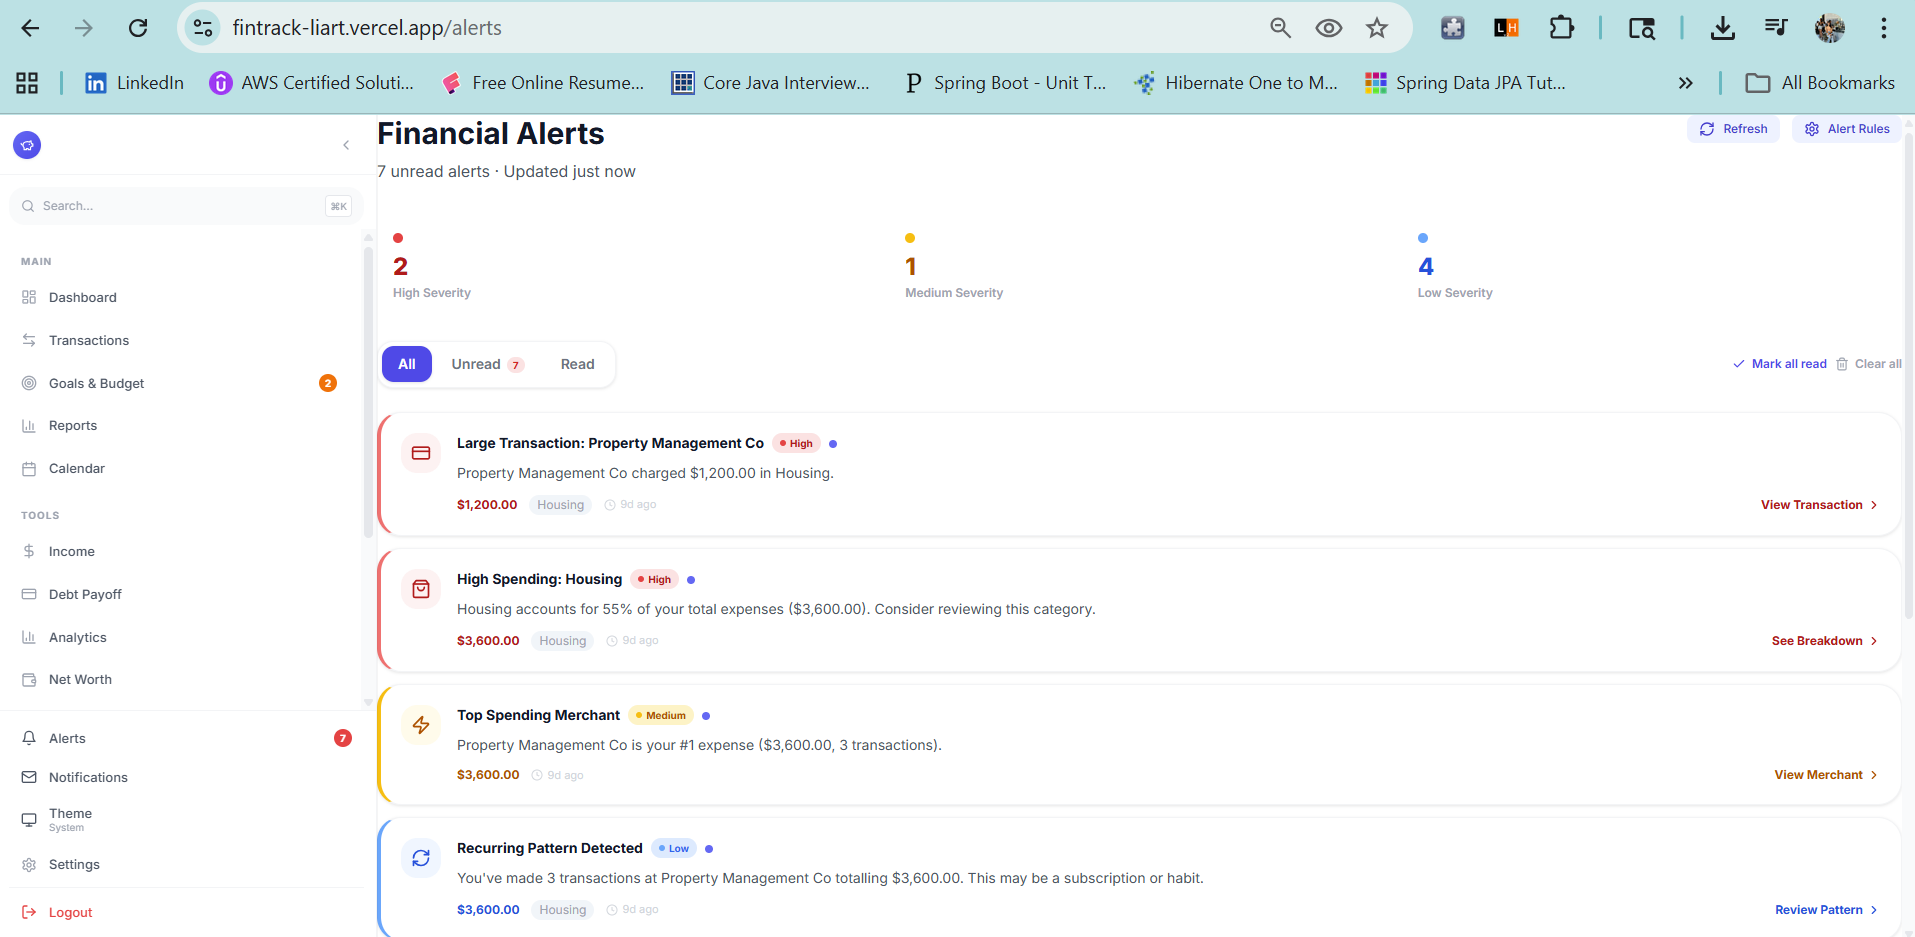
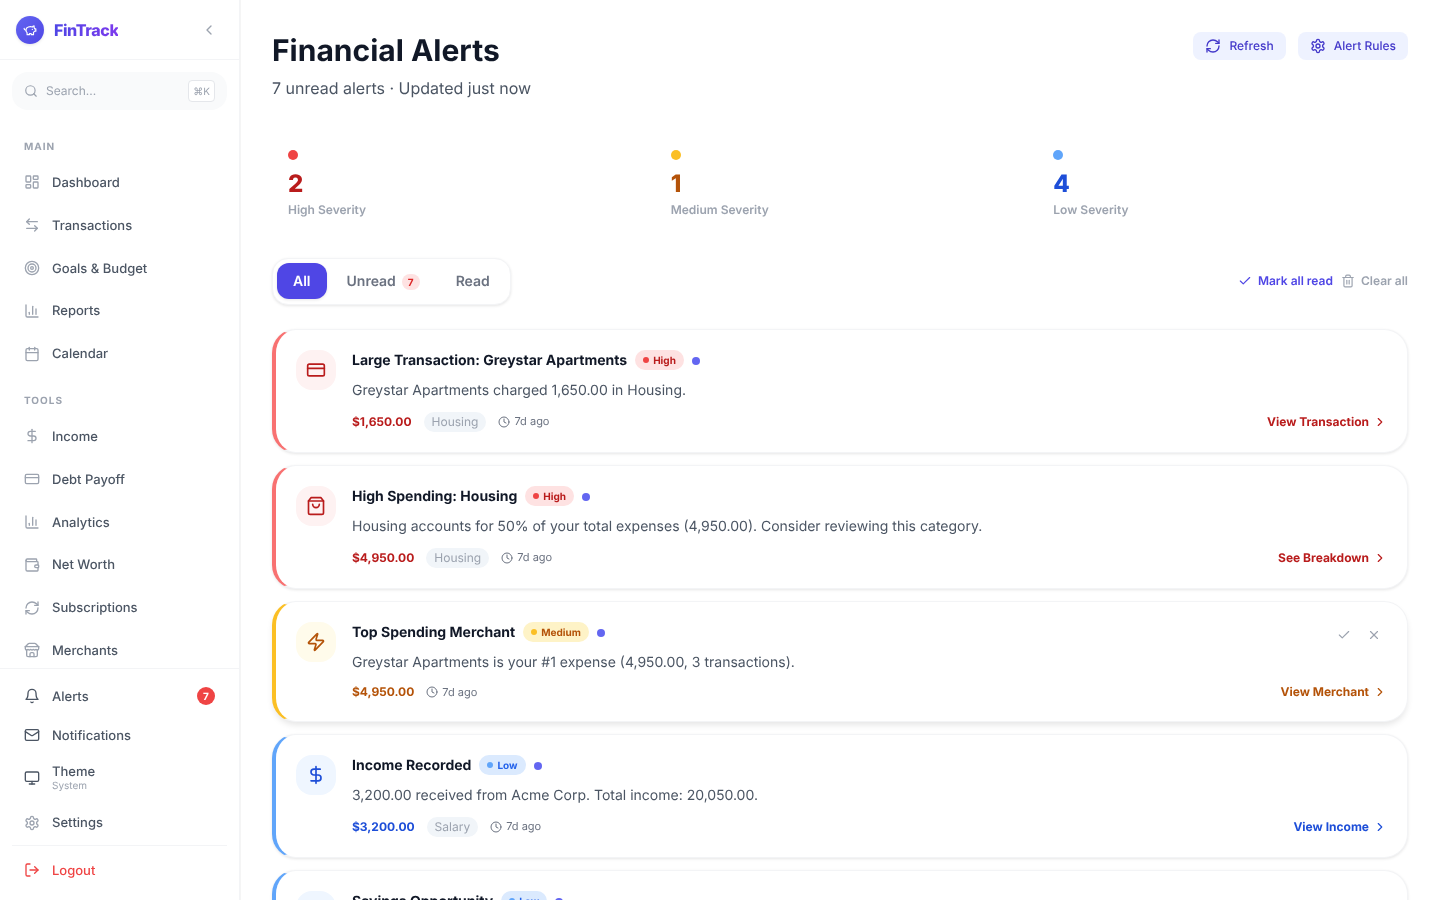
docs: README and landing page show what the app does today
- README: features built since (bank connections with a public sandbox
  demo, two-factor sign-in, Web Push, email, households, OFX import,
  synced settings, installable app), an Engineering Decisions section,
  correct test counts (174 backend, 52 unit, 36 end-to-end), migrations
  V1-V16, and what to try in the live demo
- fresh screenshots: 8 desktop and 4 phone (docs/screenshots)
- landing page: Spring Boot 3.4 / Next.js 16 (it said 3.2 / 14), 260+
  tests (said 100+ and 52), two-factor sign-in in the security list

diff --git a/frontend/web/app/(marketing)/page.tsx b/frontend/web/app/(marketing)/page.tsx
@@ -98,7 +98,7 @@ export default function LandingPage() {
   ];
 
   const stats = [
-    { value: "52",     label: "Backend tests, 0 failures" },
+    { value: "174",    label: "Backend tests, 0 failures" },
     { value: "4",      label: "Built-in insight engines" },
     { value: "0",      label: "Third-party AI calls" },
     { value: "HS256",  label: "JWT + refresh rotation" },
@@ -237,7 +237,7 @@ export default function LandingPage() {
           </p>
 
           <p className="fade-up" style={{fontSize:14,color:"#64748b",marginBottom:36,animationDelay:"0.25s"}}>
-            Spring Boot 3.2 · Next.js 14 · PostgreSQL · 100+ tests · JWT + rate limiting
+            Spring Boot 3.4 · Next.js 16 · PostgreSQL · 260+ tests · 2FA + rate limiting
           </p>
 
           <div className="fade-up" style={{display:"flex",gap:12,justifyContent:"center",flexWrap:"wrap",marginBottom:12,animationDelay:"0.3s"}}>
@@ -462,10 +462,11 @@ export default function LandingPage() {
               </p>
               <div style={{display:"flex",flexDirection:"column",gap:14}}>
                 {[
-                  "JWT HS256 + BCrypt password hashing",
+                  "JWT in HttpOnly cookies + BCrypt password hashing",
+                  "Two-factor sign-in (TOTP) with one-time backup codes",
                   "Refresh token rotation — replay detected → all sessions revoked",
                   "IP sliding window rate limiting (5 req/15 min, no Redis)",
-                  "52 backend tests — 0 failures",
+                  "174 backend + 36 browser tests — 0 failures",
                 ].map((item)=>(
                   <div key={item} style={{display:"flex",alignItems:"flex-start",gap:12}}>
                     <div style={{width:20,height:20,borderRadius:"50%",background:"rgba(16,185,129,0.15)",display:"flex",alignItems:"center",justifyContent:"center",flexShrink:0,marginTop:1}}>
@@ -648,7 +649,7 @@ export default function LandingPage() {
           </div>
           <div style={{borderTop:"1px solid rgba(255,255,255,0.05)",paddingTop:24,display:"flex",justifyContent:"space-between",alignItems:"center",flexWrap:"wrap",gap:12}}>
             <p style={{fontSize:13,color:"#94a3b8"}}>© 2026 FinTrack. All rights reserved.</p>
-            <p style={{fontSize:13,color:"#94a3b8"}}>Spring Boot 3.2 · Next.js 14 · PostgreSQL · 100+ tests</p>
+            <p style={{fontSize:13,color:"#94a3b8"}}>Spring Boot 3.4 · Next.js 16 · PostgreSQL · 260+ tests</p>
           </div>
         </div>
       </footer>

diff --git a/README.md b/README.md
@@ -12,7 +12,7 @@
 &nbsp;
 [![Next.js](https://img.shields.io/badge/Next.js%2016-TypeScript-black?style=flat-square&logo=nextdotjs)](https://nextjs.org/)
 &nbsp;
-[![Tests](https://img.shields.io/badge/Backend%20Tests-130%2B%20JUnit-22c55e?style=flat-square&logo=junit5)](https://github.com/GanasalaChandana/FinTrack-AI-Powered-Personal-Finance-Platform/actions)
+[![Tests](https://img.shields.io/badge/Tests-260%2B%20(JUnit%20%C2%B7%20Vitest%20%C2%B7%20Playwright)-22c55e?style=flat-square&logo=junit5)](https://github.com/GanasalaChandana/FinTrack-AI-Powered-Personal-Finance-Platform/actions)
 &nbsp;
 [![License: MIT](https://img.shields.io/badge/License-MIT-gray?style=flat-square)](LICENSE)
 
@@ -33,7 +33,11 @@
 - **Refresh token rotation with replay detection** — SHA-256 hashed, single-use; detecting a replayed token revokes ALL active sessions
 - **Fail-fast security config** — the server refuses to start without a strong `JWT_SECRET` (and rejects known public example secrets); `/actuator` exposes only `health`; errors return generic messages, never internals
 - **Ownership checks on user-scoped routes** — other users' resources return 403/404, and a `userId` supplied in a request body or query string is no longer trusted over the authenticated caller
-- **100+ backend tests and 20+ frontend unit tests** — Mockito service tests, `@WebMvcTest` controller slices, and `@SpringBootTest` integration tests on in-memory H2 covering the security fixes; Vitest tests for the forecasting, anomaly and custom-report logic
+- **Live bank connections (Plaid)** — Plaid Link with the OAuth redirect flow (Chase, Bank of America, Wells Fargo…), cursor-based `/transactions/sync`, access tokens AES-256-GCM encrypted at rest. A **public demo mode** puts visitors on Plaid's sandbox test banks while chosen accounts use production, and every connection remembers which environment it belongs to
+- **Two-factor sign-in (TOTP, RFC 6238)** — implemented from scratch (HMAC-SHA1, ±1 step drift, replay protection), one-time backup codes stored as SHA-256 hashes, and a lost-device recovery that only completes after a 3-day wait with an emailed cancel link
+- **Web Push with only the JDK** — message encryption (RFC 8291, `aes128gcm`) and VAPID signing (RFC 8292, ES256) written with `javax.crypto`, verified against independent implementations (Python `http_ece` and PyJWT) and accepted by Google's push service. Budget, unusual-spending and goal-milestone alerts reach phones and desktops
+- **Email that works on a free host** — Render's free tier blocks outgoing SMTP, so mail goes through Brevo's HTTPS API (SMTP still supported), with timeouts so a blocked mail server can't hang a request
+- **260+ automated tests** — 174 backend (Mockito unit, `@WebMvcTest` slices, `@SpringBootTest` integration on in-memory H2, fake Plaid / push servers on localhost), 52 Vitest unit tests and 36 Playwright end-to-end tests run on desktop and phone viewports in CI
 - **Versioned database migrations** — Flyway baselines the live database and owns schema changes going forward; a test checks the baseline against the JPA entities
 - **Safe to scale out** — every scheduled job takes a database lock (ShedLock), so with several instances each job runs once; recurring transactions and budget alerts carry unique keys, so a crash-and-retry can't create duplicates
 
@@ -41,10 +45,21 @@
 
 ## 📸 Screenshots
 
-| Dashboard + AI Insights | Smart Alerts | Reports & Forecast |
+**Desktop**
+
+| Dashboard + insights | Transactions | Monthly budgets |
 |:---:|:---:|:---:|
-| ![Dashboard](docs/dashboard.png) | ![Alerts](docs/alerts.png) | ![Reports](docs/reports.png) |
-| AI anomaly cards + burn rate forecast visible above the fold | 8 rule types with severity badges and actionable context | 6-month spending forecast with trend line |
+| ![Dashboard](docs/screenshots/dashboard.png) | ![Transactions](docs/screenshots/transactions.png) | ![Budgets](docs/screenshots/budgets.png) |
+| **Smart alerts** | **Reports & forecast** | **Bank connections (demo mode)** |
+| ![Alerts](docs/screenshots/alerts.png) | ![Reports](docs/screenshots/reports.png) | ![Bank connections](docs/screenshots/bank-connections.png) |
+| **Two-factor sign-in** | **Push notifications** | |
+| ![Two-factor](docs/screenshots/two-factor.png) | ![Push notifications](docs/screenshots/push-notifications.png) | |
+
+**Phone** (iPhone and Android; installable from the browser)
+
+| Dashboard | Transactions | Budgets | Bank accounts |
+|:---:|:---:|:---:|:---:|
+| <img src="docs/screenshots/mobile-dashboard.png" width="200" alt="Dashboard on a phone"> | <img src="docs/screenshots/mobile-transactions.png" width="200" alt="Transactions on a phone"> | <img src="docs/screenshots/mobile-budgets.png" width="200" alt="Budgets on a phone"> | <img src="docs/screenshots/mobile-bank-connections.png" width="200" alt="Bank accounts on a phone"> |
 
 👉 **[Try the live demo → fintrack-liart.vercel.app](https://fintrack-liart.vercel.app)**
 
@@ -65,6 +80,9 @@
 - 📊 **Reports tab** — nine report views (overview, custom, trends, comparison, forecast, budget history, tax, income, savings) built from your real transactions; the **Custom** view generates a report from the metrics, range and grouping you pick
 - 🔔 **Alerts page** — smart rule-based alerts with severity badges; budget alerts are generated hourly by a background job
 - 📥 **Transactions → Import CSV** — bulk upload with auto-tagging and payment methods read from the file; an unusable file never wipes existing data, and you get a real import result back
+- 🏦 **Settings → Bank accounts → Connect a bank** — connect one of Plaid's test banks with `user_good` / `pass_good`; sample transactions import and categorise automatically
+- 🔐 **Settings → Security** — set up two-factor sign-in with any authenticator app
+- 📲 **Settings → Notifications** — turn on push notifications for this device and send yourself a test
 - 🧪 **Demo account** — try the app without signing up; the demo account is protected from deletion
 
 ---
@@ -83,7 +101,32 @@
 | 💳 | **Payment Methods** | Transactions carry a payment method, read from CSV imports and editable per transaction |
 | 🎯 | **Smart Categories (ML)** | New and imported transactions are categorised from your own history: a category you set for that merchant, else a **Naive Bayes classifier trained on your categorised transactions** (merchant and description words, amount size), else keyword rules. Settings shows its cross-validated accuracy against a majority-class baseline |
 | 🔐 | **Secure Auth** | Email/password and Google sign-in, JWT HS256, refresh token rotation, per-IP and per-account rate limiting, BCrypt hashing, case-insensitive unique emails |
+| 🏦 | **Bank Connections** | Plaid Link (incl. OAuth banks) → transactions sync every 6 hours; real banks for chosen accounts, Plaid's test banks for everyone else |
+| 📥 | **File Import** | CSV, OFX and QFX bank exports, with column mapping, preview and duplicate-safe import |
+| 🔑 | **Two-Factor Sign-In** | Authenticator-app codes (TOTP), 10 one-time backup codes, lost-device recovery with an emailed cancel link |
+| 📲 | **Push Notifications** | Budget, large-transaction, unusual-spending and goal-milestone alerts on phones and desktops (Web Push) |
+| ✉ | **Email** | Password reset, household invites, budget alerts, weekly digest and monthly report |
+| 👪 | **Households** | Invite people by email to share budgets; everyone's spending counts, transactions stay private |
+| 🔁 | **Recurring Transactions** | Weekly / biweekly / monthly / quarterly / yearly rules that post themselves; pause and resume |
+| 📱 | **Installable App** | Works on iPhone, Android and desktop; add to the home screen for a full-screen app |
+| ☁ | **Synced Settings** | Debts, net worth, categories, alert rules and preferences are saved to the account, not the browser |
 | 👤 | **Account Controls** | Change password (8+ characters), reset data, or delete your account and all of its data |
+
+---
+
+## 🔍 Engineering Decisions
+
+Choices that shaped the code, and why:
+
+| Decision | Why | Where |
+|---|---|---|
+| **Web Push written with `javax.crypto`** instead of a library | The Java libraries pull in Bouncy Castle and an HTTP client for ~150 lines of standard crypto. Writing it meant reading RFC 8291/8292 closely; correctness is checked against Python's `http_ece` and PyJWT, and by Google's push service accepting the messages | `backend/.../push/WebPushCrypto.java` |
+| **TOTP two-factor from the RFC**, not a library | Small, well-specified algorithm; the test suite uses the RFC 6238 test vector. Codes can't be replayed (the last used time step is stored), and recovery waits 3 days with an emailed cancel link so a stolen password alone can't remove 2FA | `backend/.../auth/twofactor/` |
+| **Two Plaid environments side by side** | Production connections are limited and paid; a public demo would use them up. Visitors get the sandbox, chosen accounts get production, and each stored connection keeps the environment it was made in so syncs never go to the wrong one | `backend/.../plaid/PlaidConfig.java` |
+| **Email over HTTPS (Brevo) with SMTP as a fallback** | Render's free tier blocks outgoing SMTP; the first sign was password-reset requests hanging until the proxy returned 502. Both paths now have 5-second timeouts | `backend/.../common/EmailService.java` |
+| **Rule-based analytics + a Naive Bayes categoriser, not an LLM** | Runs instantly and for free, gives explainable results ("550% above your $59 average"), and needs no user data sent to a third party | `frontend/web/lib/utils/aiInsights.ts`, `backend/.../CategoryClassifier.java` |
+| **Session cookies, not tokens in localStorage** | Page scripts can't read HttpOnly cookies, so an XSS bug can't steal a session; writes need an `X-Requested-With` header against CSRF | `backend/.../auth/security/AuthCookies.java` |
+| **Database locks on scheduled jobs (ShedLock)** | The free host may briefly run two instances during a deploy; each alert, digest and sync still runs once | `@SchedulerLock` on every `@Scheduled` job |
 
 ---
 
@@ -231,10 +274,11 @@ Output: "📊 Projected $3,855 vs $3,150 budget — $705 over.
 |---|---|
 | **Frontend** | Next.js 16, React 19, TypeScript, Tailwind CSS, Recharts, React Hook Form, Tesseract.js |
 | **Backend** | Spring Boot 3.4, Java 17, Spring Security, Spring Data JPA, Maven |
-| **Database** | PostgreSQL with Flyway migrations (V1 baseline, V2 indexes + job locks); Hibernate only validates the schema (`ddl-auto=validate`) |
-| **Auth** | JWT HS256, Google sign-in, BCrypt, Refresh Token Rotation, per-IP + per-account Rate Limiting |
-| **Testing** | Backend: JUnit 5, Mockito, @WebMvcTest, MockMvc, @SpringBootTest + in-memory H2 (100+ tests). Frontend: Vitest unit tests (20+), Playwright smoke tests |
-| **DevOps** | GitHub Actions CI (4 jobs: backend tests, TypeScript, Vitest, Playwright), Docker Compose, Vercel (frontend), Render (backend + DB) |
+| **Database** | PostgreSQL (Supabase) with Flyway migrations V1–V16; Hibernate only validates the schema (`ddl-auto=validate`) |
+| **Auth** | JWT HS256 in HttpOnly cookies, Google sign-in, TOTP two-factor, BCrypt, Refresh Token Rotation, per-IP + per-account Rate Limiting |
+| **Integrations** | Plaid (bank data), Brevo (email over HTTPS), Web Push (RFC 8291 / 8292, no third-party library) |
+| **Testing** | Backend: JUnit 5, Mockito, @WebMvcTest, MockMvc, @SpringBootTest + in-memory H2 (174 tests). Frontend: Vitest (52 unit tests), Playwright (36 end-to-end tests on desktop and phone viewports) |
+| **DevOps** | GitHub Actions CI (backend tests, TypeScript, Vitest, Docker image, Playwright against the live site), Docker Compose, Vercel (frontend), Render (backend), Supabase (database), weekly AES-256 encrypted database backups, UptimeRobot monitoring |
 
 ---
 
@@ -400,7 +444,7 @@ cd frontend/web && npm test
 cd frontend/web && npm run test:e2e
 ```
 
-**Backend:** 110+ tests. Integration tests use an in-memory H2 database — no PostgreSQL required locally.
+**Backend:** 174 tests. Integration tests use an in-memory H2 database — no PostgreSQL required locally.
 
 | Area | Test classes | Coverage |
 |---|---|---|
@@ -409,9 +453,12 @@ cd frontend/web && npm run test:e2e
 | Reports | `ReportsIntegrationTest` | Reports built from real data, over-budget insights, other users' reports forbidden |
 | Auth & accounts | `RegistrationFlowTest`, `AccountManagementTest`, `DemoServiceTest` | Sign-up validation, case-insensitive email, password rules, full account deletion, demo account protection and re-seeding |
 | Security | `AuthControllerRateLimitTest`, `JwtUtilSecretValidationTest`, `ActuatorExposureTest`, `CorsTest`, `GlobalExceptionHandlerTest` | Spoofed-IP rate limiting and sign-up cap, weak/missing/public JWT secrets rejected, actuator exposure, CORS allow-list, correct status codes with generic error messages |
+| Bank connections | `PlaidIntegrationTest`, `PlaidLinkTokenTest` | Import, modify and remove via sync cursors, encrypted access tokens, login-required handling, ownership; what is sent to Plaid in sandbox, production and demo mode (fake Plaid on localhost) |
+| Two-factor & push | `TwoFactorTest`, `PushNotificationTest` | RFC 6238 test vector, code reuse refused, backup codes, recovery after the waiting period; push messages decrypted with the device's keys and VAPID signatures verified on a fake push service, expired devices removed |
+| Notifications & sharing | `NotificationEmailTest`, `HouseholdTest`, `UserDataTest` | Large-transaction, unusual-spending and goal-milestone alerts honour their switches; household invites and shared budgets; per-user synced data and its limits |
 | Database | `FlywayBaselineTest` | A fresh database built from `V1` passes Hibernate's strict schema validation against the entities; an existing database is baselined at V1 and the baseline script is not run against it |
 
-**Frontend:** 20+ Vitest unit tests for the pure logic in `lib/` — the custom-report builder (date windows, grouping, running balance, rounding), the month-end budget forecast (burn rate, at-risk categories, first-of-month edge case) and anomaly detection (thresholds, per-category history, minimum-data limits). Playwright specs in `frontend/web/tests/e2e` cover the main user flows against a live deployment.
+**Frontend:** 52 Vitest unit tests for the pure logic in `lib/` — the OFX/QFX parser (SGML and XML), the custom-report builder (date windows, grouping, running balance, rounding), the month-end budget forecast (burn rate, at-risk categories, first-of-month edge case) and anomaly detection (thresholds, per-category history, minimum-data limits). Playwright specs in `frontend/web/tests/e2e` cover the main user flows against a live deployment.
 
 ---
 
